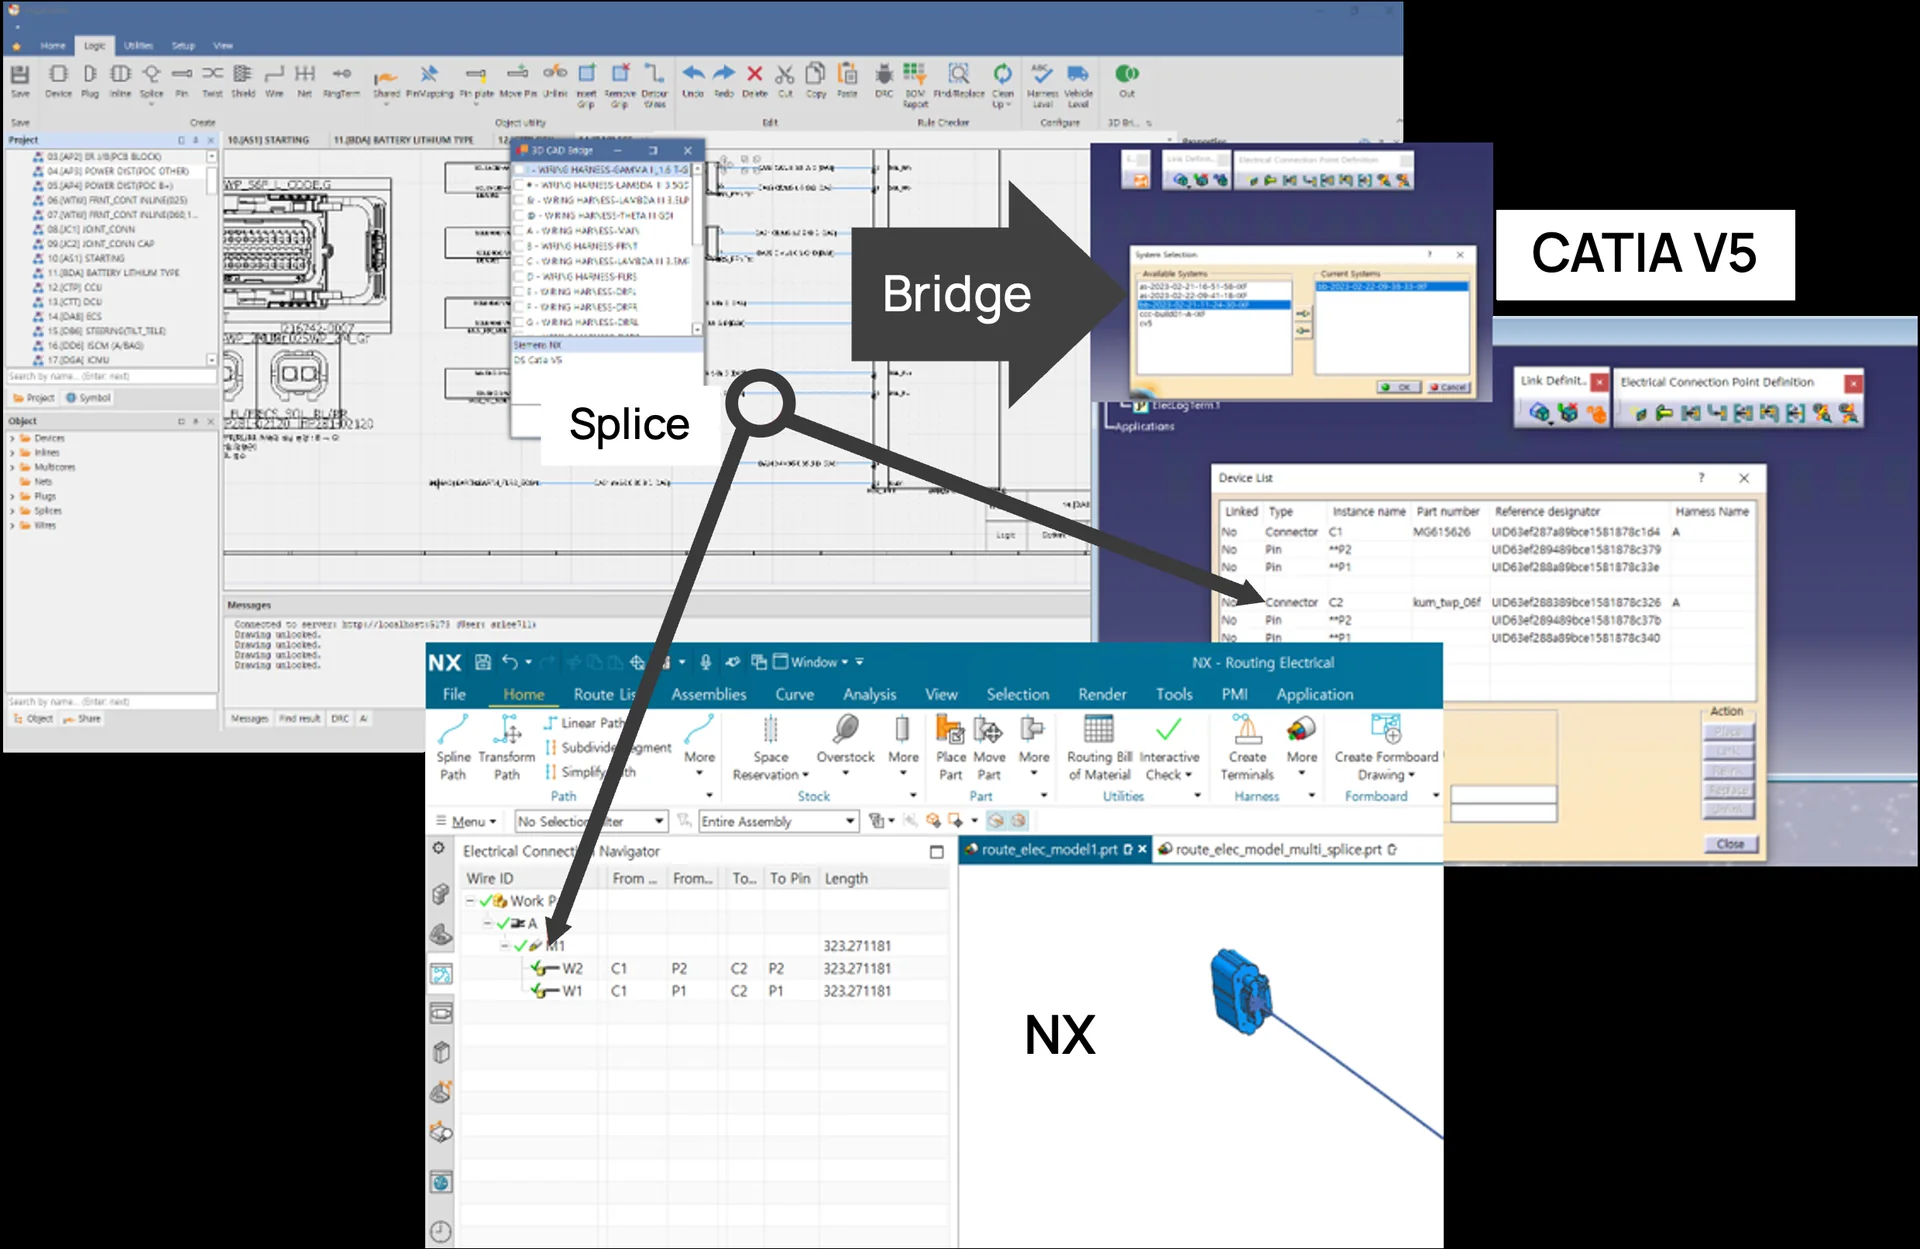
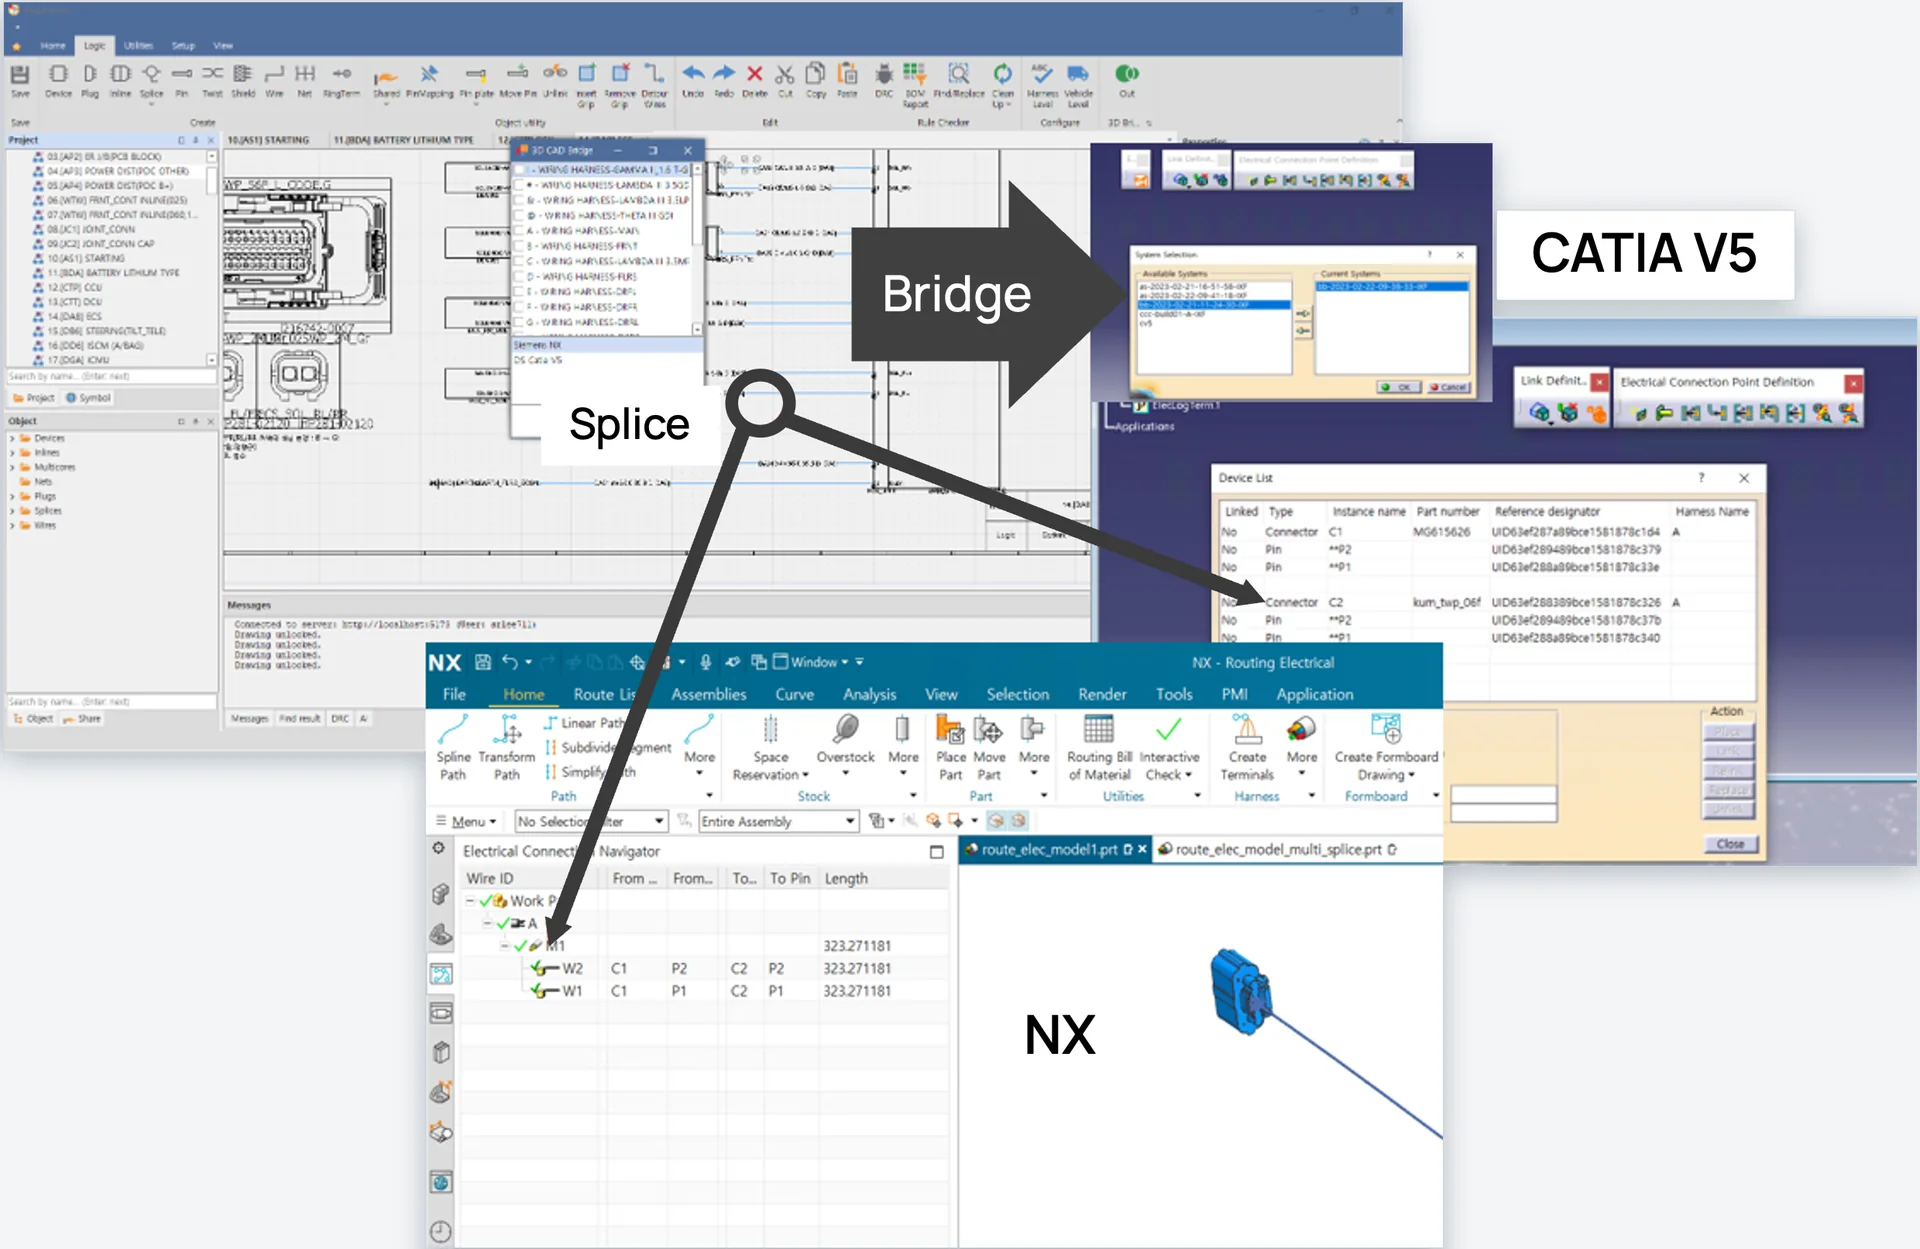
style: 제품 페이지 — 모듈 카드 순서를 모듈 번호에 맞춤, 3D CAD Bridge 검은 바탕을 밝은 회색+옅은 그림자로, Library 화면은 2:1 틀 안에 사방 여백
- Core Modules 카드: DRC/BOM → Power Check, AI Assistant → Multiuser 순(홈 공통)
- bridge-ws.webp: 가장자리와 이어진 검은 영역만 앱 창 바탕색(#f3f5f7)으로 채우고 창 아래 그림자·옅은 테두리
- library-ws.webp: 1400×700 바탕 가운데에 88% 크기, 폰(1.857:1)에서도 가운데 기준으로 자름

Changed region(s): [[0.0, 0.5933, 1.0, 1.0], [0.7188, 0.0, 1.0, 0.281], [0.0, 0.0, 0.0312, 0.0312]]

diff --git a/assets/sections.js b/assets/sections.js
@@ -51,19 +51,19 @@
       </a>
 
       <p class="mod-gh" data-grp="2"><i></i><span data-i18n="mod_grp2">검증 · 관리</span></p>   <!-- group heading: phones only (engineering.css) -->
-      <a href="${here('product', '#power')}" data-mod="power" data-grp="2" class="group block bg-white rounded-[20px] p-5 sm:p-6 md:p-8 hover:-translate-y-1 transition-all duration-300 shadow-sm hover:shadow-xl">
-        <div class="w-12 h-12 rounded-2xl flex items-center justify-center text-2xl mb-5"></div>
-        <h3 class="font-headline font-bold text-xl text-on-surface mb-3 group-hover:text-primary-container transition-colors" translate="no" data-i18n="mod_power_title">Power Check</h3>
-        <span class="mod-sub" data-i18n="mod_power_sub">전원·퓨즈·부하 용량 점검</span>
-        <p class="font-body text-on-surface-variant text-[15px] leading-relaxed mb-4" data-i18n="mod_power_desc">전원·퓨즈·부하·접지 역할과 전류값으로 회로의 전원 용량을 점검합니다.</p>
-        <span class="mod-more" aria-hidden="true"><span data-i18n="gal_more">자세히 보기</span><svg viewBox="0 0 20 20" fill="none" aria-hidden="true"><path d="M3 10h13m-5-5 5 5-5 5" stroke="currentColor" stroke-width="1.8"/></svg></span>
-      </a>
-
       <a href="${here('product', '#drc')}" data-mod="drc" data-grp="2" class="group block bg-white rounded-[20px] p-5 sm:p-6 md:p-8 hover:-translate-y-1 transition-all duration-300 shadow-sm hover:shadow-xl">
         <div class="w-12 h-12 rounded-2xl flex items-center justify-center text-2xl mb-5"></div>
         <h3 class="font-headline font-bold text-xl text-on-surface mb-3 group-hover:text-primary-container transition-colors" translate="no" data-i18n="mod_drc_title">DRC / BOM</h3>
         <span class="mod-sub" data-i18n="mod_drc_sub">24개 규칙 검증과 BOM 출력</span>
         <p class="font-body text-on-surface-variant text-[15px] leading-relaxed mb-4" data-i18n="mod_drc_desc">24개 DRC 규칙으로 설계 오류를 찾고, 와이어·커넥터 BOM을 출력합니다.</p>
+        <span class="mod-more" aria-hidden="true"><span data-i18n="gal_more">자세히 보기</span><svg viewBox="0 0 20 20" fill="none" aria-hidden="true"><path d="M3 10h13m-5-5 5 5-5 5" stroke="currentColor" stroke-width="1.8"/></svg></span>
+      </a>
+
+      <a href="${here('product', '#power')}" data-mod="power" data-grp="2" class="group block bg-white rounded-[20px] p-5 sm:p-6 md:p-8 hover:-translate-y-1 transition-all duration-300 shadow-sm hover:shadow-xl">
+        <div class="w-12 h-12 rounded-2xl flex items-center justify-center text-2xl mb-5"></div>
+        <h3 class="font-headline font-bold text-xl text-on-surface mb-3 group-hover:text-primary-container transition-colors" translate="no" data-i18n="mod_power_title">Power Check</h3>
+        <span class="mod-sub" data-i18n="mod_power_sub">전원·퓨즈·부하 용량 점검</span>
+        <p class="font-body text-on-surface-variant text-[15px] leading-relaxed mb-4" data-i18n="mod_power_desc">전원·퓨즈·부하·접지 역할과 전류값으로 회로의 전원 용량을 점검합니다.</p>
         <span class="mod-more" aria-hidden="true"><span data-i18n="gal_more">자세히 보기</span><svg viewBox="0 0 20 20" fill="none" aria-hidden="true"><path d="M3 10h13m-5-5 5 5-5 5" stroke="currentColor" stroke-width="1.8"/></svg></span>
       </a>
 
@@ -84,19 +84,19 @@
       </a>
 
       <p class="mod-gh" data-grp="3"><i></i><span data-i18n="mod_grp3">협업 · 연동</span></p>   <!-- group heading: phones only (engineering.css) -->
-      <a href="${here('product', '#multiuser')}" data-mod="multiuser" data-grp="3" class="group block bg-white rounded-[20px] p-5 sm:p-6 md:p-8 hover:-translate-y-1 transition-all duration-300 shadow-sm hover:shadow-xl">
-        <div class="w-12 h-12 rounded-2xl flex items-center justify-center text-2xl mb-5"></div>
-        <h3 class="font-headline font-bold text-xl text-on-surface mb-3 group-hover:text-primary-container transition-colors" translate="no" data-i18n="mod_multiuser_title">Multiuser Environment</h3>
-        <span class="mod-sub" data-i18n="mod_multiuser_sub">서버 기반 동시 설계와 권한</span>
-        <p class="font-body text-on-surface-variant text-[15px] leading-relaxed mb-4" data-i18n="mod_multiuser_desc">Server/Client로 함께 설계합니다. 사용자별 권한, 편집 중 도면 자동 잠금.</p>
-        <span class="mod-more" aria-hidden="true"><span data-i18n="gal_more">자세히 보기</span><svg viewBox="0 0 20 20" fill="none" aria-hidden="true"><path d="M3 10h13m-5-5 5 5-5 5" stroke="currentColor" stroke-width="1.8"/></svg></span>
-      </a>
-
       <a href="${here('product', '#ai')}" data-mod="ai" data-grp="3" class="group block bg-white rounded-[20px] p-5 sm:p-6 md:p-8 hover:-translate-y-1 transition-all duration-300 shadow-sm hover:shadow-xl">
         <div class="w-12 h-12 rounded-2xl flex items-center justify-center text-2xl mb-5"></div>
         <h3 class="font-headline font-bold text-xl text-on-surface mb-3 group-hover:text-primary-container transition-colors" translate="no" data-i18n="mod_ai_title">AI Assistant</h3>
         <span class="mod-sub" data-i18n="mod_ai_sub">자연어로 설계 데이터 조회·수정</span>
         <p class="font-body text-on-surface-variant text-[15px] leading-relaxed mb-4" data-i18n="mod_ai_desc">MCP 기반 AI 어시스턴트. 자연어로 설계 데이터를 조회·수정합니다.</p>
+        <span class="mod-more" aria-hidden="true"><span data-i18n="gal_more">자세히 보기</span><svg viewBox="0 0 20 20" fill="none" aria-hidden="true"><path d="M3 10h13m-5-5 5 5-5 5" stroke="currentColor" stroke-width="1.8"/></svg></span>
+      </a>
+
+      <a href="${here('product', '#multiuser')}" data-mod="multiuser" data-grp="3" class="group block bg-white rounded-[20px] p-5 sm:p-6 md:p-8 hover:-translate-y-1 transition-all duration-300 shadow-sm hover:shadow-xl">
+        <div class="w-12 h-12 rounded-2xl flex items-center justify-center text-2xl mb-5"></div>
+        <h3 class="font-headline font-bold text-xl text-on-surface mb-3 group-hover:text-primary-container transition-colors" translate="no" data-i18n="mod_multiuser_title">Multiuser Environment</h3>
+        <span class="mod-sub" data-i18n="mod_multiuser_sub">서버 기반 동시 설계와 권한</span>
+        <p class="font-body text-on-surface-variant text-[15px] leading-relaxed mb-4" data-i18n="mod_multiuser_desc">Server/Client로 함께 설계합니다. 사용자별 권한, 편집 중 도면 자동 잠금.</p>
         <span class="mod-more" aria-hidden="true"><span data-i18n="gal_more">자세히 보기</span><svg viewBox="0 0 20 20" fill="none" aria-hidden="true"><path d="M3 10h13m-5-5 5 5-5 5" stroke="currentColor" stroke-width="1.8"/></svg></span>
       </a>
 

diff --git a/product.html b/product.html
@@ -34,7 +34,7 @@
 <body class="bg-surface antialiased" data-page="product">
 
 <script src="assets/header.js?v=7dcbf50d"></script>
-<script src="assets/sections.js?v=536dc9dc"></script>
+<script src="assets/sections.js?v=0e36d543"></script>
 
 <main id="main" class="page-top">
 <!-- Sections of this page -->
@@ -285,7 +285,7 @@
         </ul>
       </div>
       <div class="reveal reveal-delay-2">
-        <div class="ga-frame"><div class="ga-bar" aria-hidden="true"><i></i><i></i><i></i><span translate="no">VegaFencer — Library Symbol Editor</span></div><img src="assets/img/library-ws.webp" width="984" height="514" alt="" loading="lazy" decoding="async"></div>
+        <div class="ga-frame"><div class="ga-bar" aria-hidden="true"><i></i><i></i><i></i><span translate="no">VegaFencer — Library Symbol Editor</span></div><img style="object-position: center" src="assets/img/library-ws.webp" width="1400" height="700" alt="" loading="lazy" decoding="async"></div>
       </div>
     </div>
   </div>

diff --git a/index.html b/index.html
@@ -37,7 +37,7 @@
 <body class="bg-surface antialiased" data-page="home" data-skip="hero">
 
 <script src="assets/header.js?v=7dcbf50d"></script>
-<script src="assets/sections.js?v=536dc9dc"></script>
+<script src="assets/sections.js?v=0e36d543"></script>
 
 <!-- ============================================================
      HERO (photo with the real Logic screen baked in: assets/hero.js places it, site.css "Home hero")

diff --git a/about.html b/about.html
@@ -33,7 +33,7 @@
 </head>
 <body class="bg-surface antialiased" data-page="about">
 <script src="assets/header.js?v=7dcbf50d"></script>
-<script src="assets/sections.js?v=536dc9dc"></script>
+<script src="assets/sections.js?v=0e36d543"></script>
 <main id="main" class="page-top about-night">
 <h1 class="sr-only" data-i18n="about_title">회사 소개</h1>
 

diff --git a/pricing.html b/pricing.html
@@ -34,7 +34,7 @@
 <body class="bg-surface antialiased" data-page="pricing">
 
 <script src="assets/header.js?v=7dcbf50d"></script>
-<script src="assets/sections.js?v=536dc9dc"></script>
+<script src="assets/sections.js?v=0e36d543"></script>
 
 <main id="main" class="page-top">
 <!-- ============================================================

diff --git a/resources.html b/resources.html
@@ -34,7 +34,7 @@
 <body class="bg-surface antialiased" data-page="resources">
 
 <script src="assets/header.js?v=7dcbf50d"></script>
-<script src="assets/sections.js?v=536dc9dc"></script>
+<script src="assets/sections.js?v=0e36d543"></script>
 
 <main id="main" class="page-top">
 <!-- Page title and the sections of this page -->
